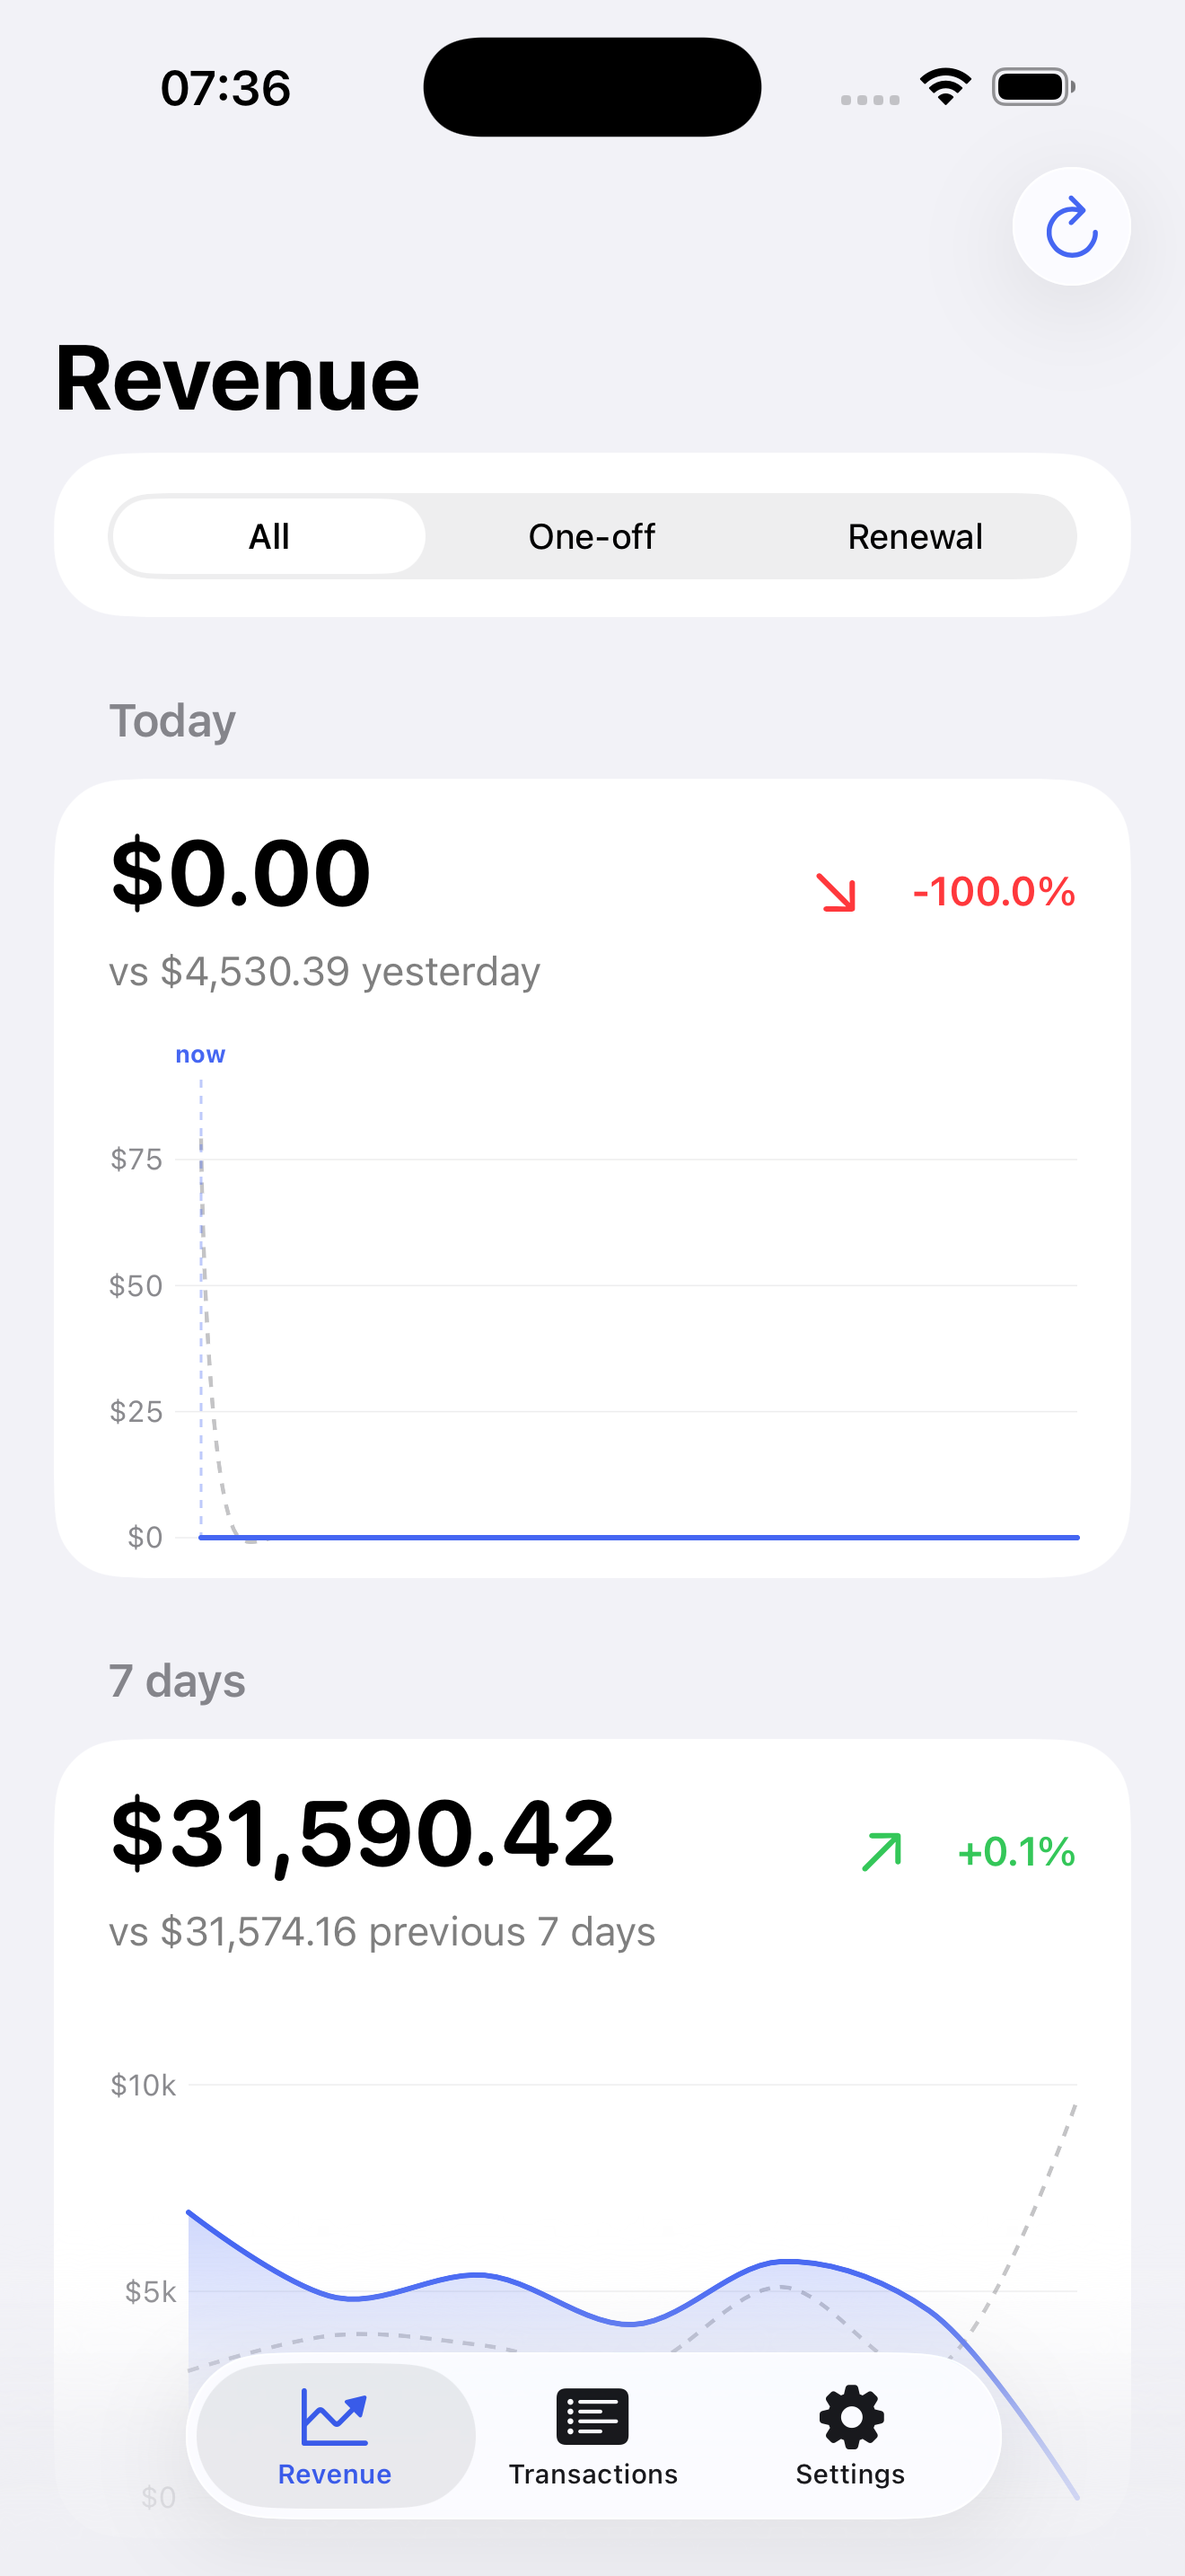
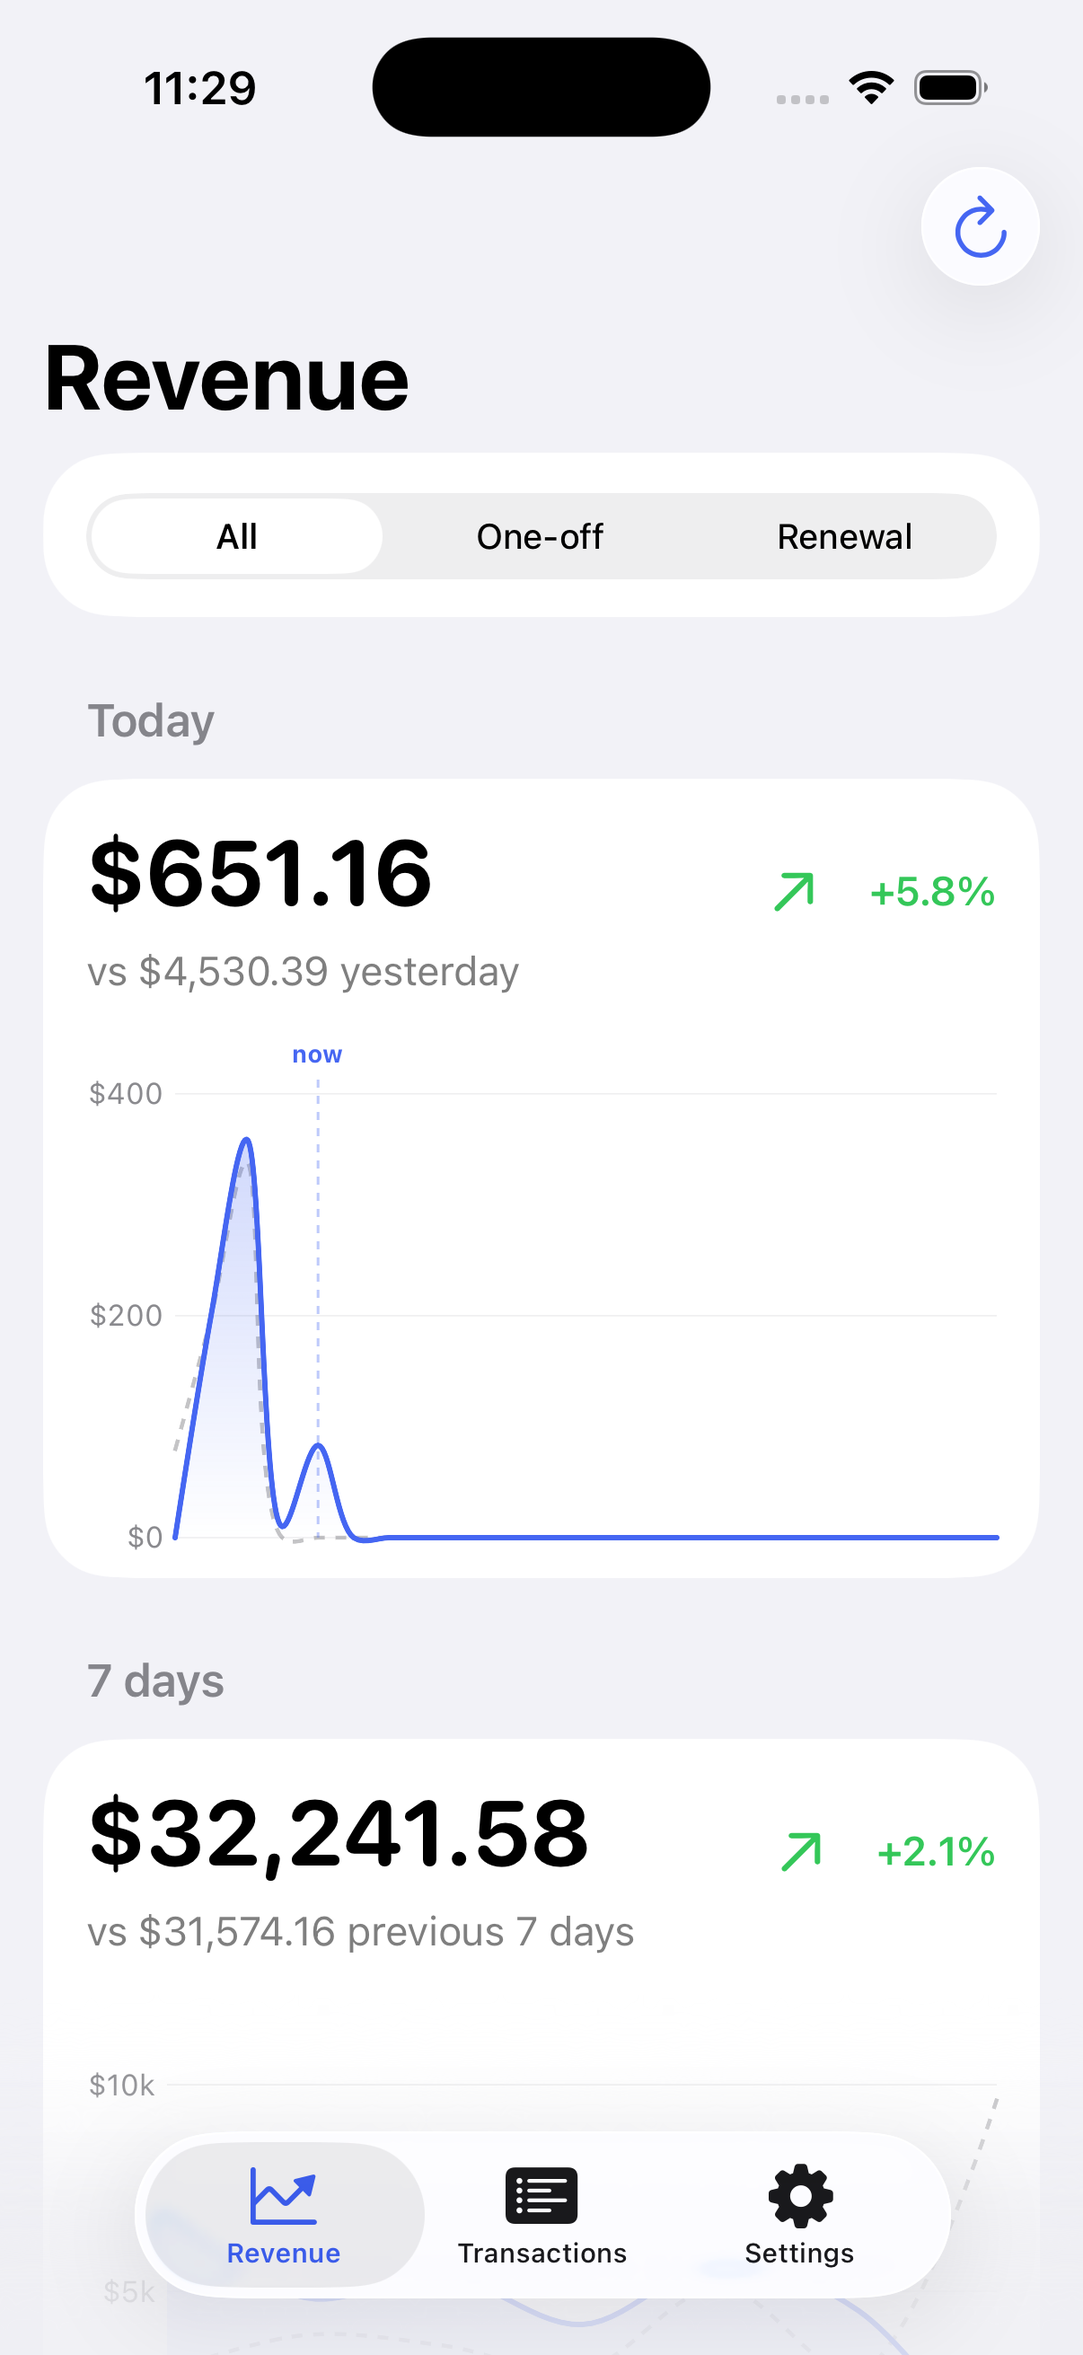
Real-data screenshots + above-the-fold hero shot
Replace the $0/empty revenue & transactions screenshots with live
healthy data, add a framed dashboard screenshot to the hero, and
regenerate the OG card from the real-data dashboard.

diff --git a/index.html b/index.html
@@ -37,6 +37,8 @@ a{color:#fff;text-decoration:none}
 .btn.ghost{background:rgba(255,255,255,.14);color:#fff!important;backdrop-filter:blur(6px)}
 .microcopy{margin-top:16px;font-size:13.5px;color:#aab3da}
 .soonline{margin-top:8px;font-size:13.5px;color:#9aa6d8}
+.heroshot{position:relative;margin:50px auto 0;width:250px;max-width:62vw}
+.heroshot img{width:100%;height:auto;display:block;border-radius:34px;box-shadow:0 34px 80px rgba(0,0,0,.5);border:1px solid rgba(255,255,255,.14)}
 .trust{background:#fff;border-bottom:1px solid #e9ebf3;padding:20px 0}
 .trust ul{list-style:none;display:flex;flex-wrap:wrap;gap:10px 30px;justify-content:center;align-items:center}
 .trust li{color:#41485f;font-size:14.5px;font-weight:600;display:flex;gap:8px;align-items:center}
@@ -115,6 +117,7 @@ footer a{color:#cdd3ee;text-decoration:underline;margin:0 9px}
   </div>
   <div class="microcopy">Full Xcode project + AGENTS.md · instant download · personal &amp; commercial use</div>
   <div class="soonline">The iOS app itself is coming to the App Store soon.</div>
+  <div class="heroshot"><img src="shots/revenue.png" alt="Pulse revenue dashboard on iPhone showing today and 7-day revenue" width="1206" height="2622" fetchpriority="high"></div>
 </header>
 
 <section class="trust"><div class="wrap"><ul>
